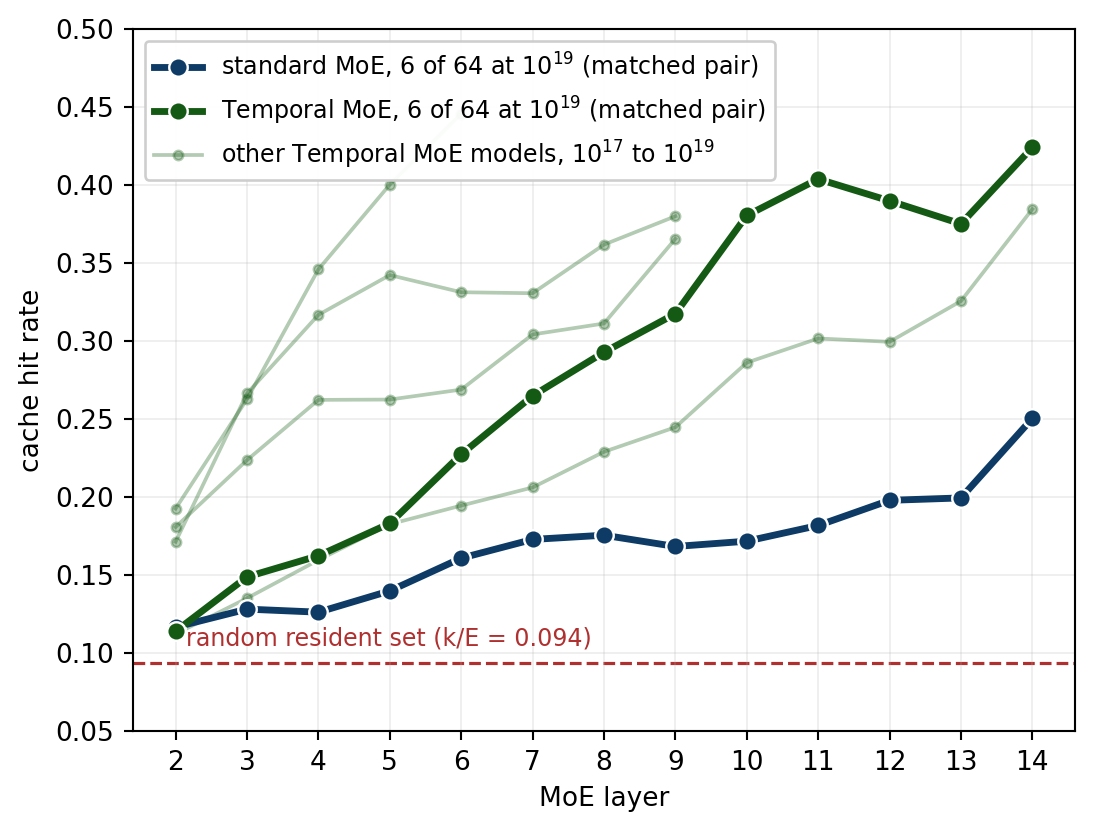
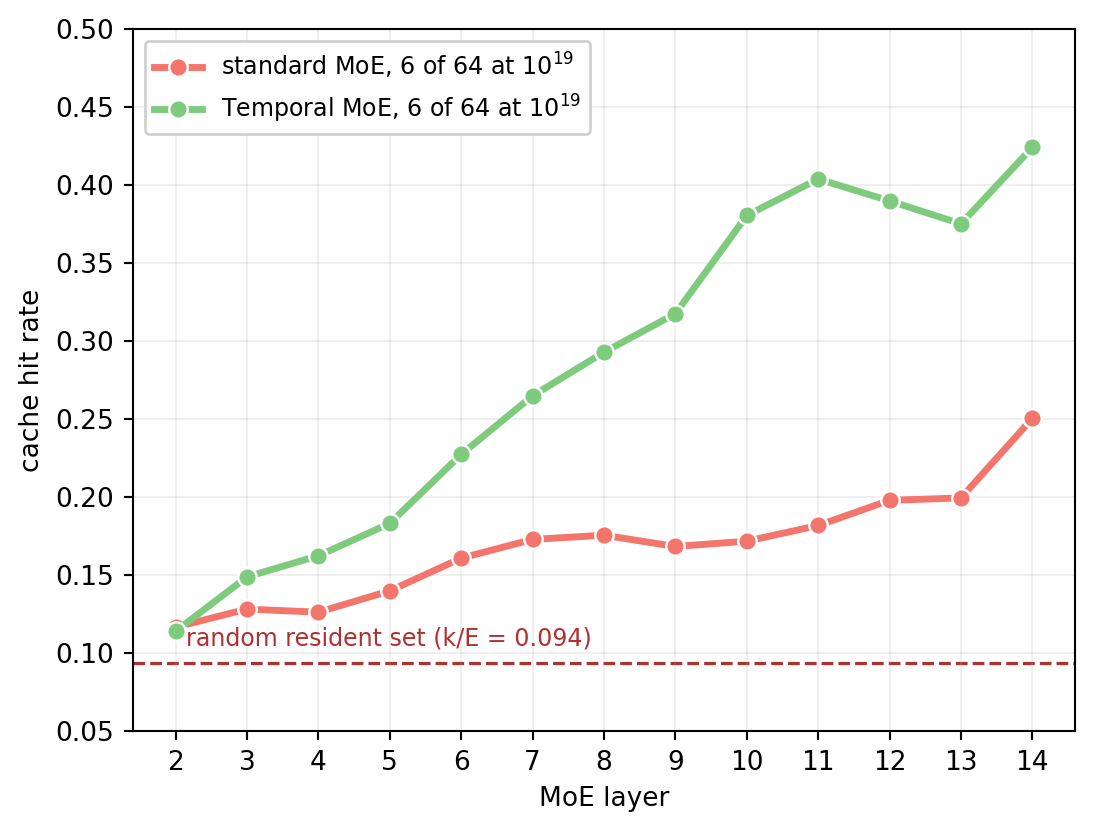
Hit-rate producer: paper mode draws the matched pair only, palette aligned with the isoFLOP figure

diff --git a/analysis/plots/plot_hitrate_by_layer.py b/analysis/plots/plot_hitrate_by_layer.py
@@ -34,7 +34,7 @@ PAPER = "--no-caption" in sys.argv
 REPO = os.path.abspath(os.path.join(os.path.dirname(__file__), "..", ".."))
 OUT = os.path.join(REPO, "results", "phase0", "figures")
 
-MOE, TMP = "#0d3b66", "#145a14"
+MOE, TMP = "#f4756b", "#7ecb7e"        # the paper palette: coarse shades of standard and Temporal MoE
 RANDOM_FLOOR = 6 / 64          # == 18/192; identical at both granularities
 
 # The one budget/granularity cell where both regimes have a preserved router log.
@@ -56,7 +56,7 @@ ax.axhline(RANDOM_FLOOR, color="#b03030", lw=1.2, ls="--", zorder=1)
 ax.text(2.15, RANDOM_FLOOR + 0.008, "random resident set (k/E = 0.094)",
         color="#b03030", fontsize=9, va="bottom")
 
-for run in CONTEXT:
+for run in ([] if PAPER else CONTEXT):     # paper: the matched pair alone
     if run not in rows:
         print(f"[warn] no rows for {run}", file=sys.stderr)
         continue
@@ -68,11 +68,11 @@ for run, (lab, col) in PAIR.items():
     ls = sorted(rows[run])
     ax.plot(ls, [rows[run][l] for l in ls], color=col, lw=2.6, marker="o", ms=7,
             markeredgecolor="white", markeredgewidth=0.9, zorder=4,
-            label=(f"{lab}, 6 of 64 at $10^{{19}}$ (matched pair)" if PAPER
+            label=(f"{lab}, 6 of 64 at $10^{{19}}$" if PAPER
                    else f"{lab} — 1e19, 6 of 64 (matched pair)"))
-ax.plot([], [], color=TMP, alpha=0.32, lw=1.4, marker="o", ms=3.5,
-        label=("other Temporal MoE models, $10^{17}$ to $10^{19}$" if PAPER
-               else "other temporal arms (1e17, 1e18, 1e19)"))
+if not PAPER:
+    ax.plot([], [], color=TMP, alpha=0.32, lw=1.4, marker="o", ms=3.5,
+            label="other temporal arms (1e17, 1e18, 1e19)")
 
 ax.set_xlabel("MoE layer" if PAPER else "MoE layer  (layer 1 is a dense FFN in every config)")
 ax.set_ylabel("cache hit rate" if PAPER else
